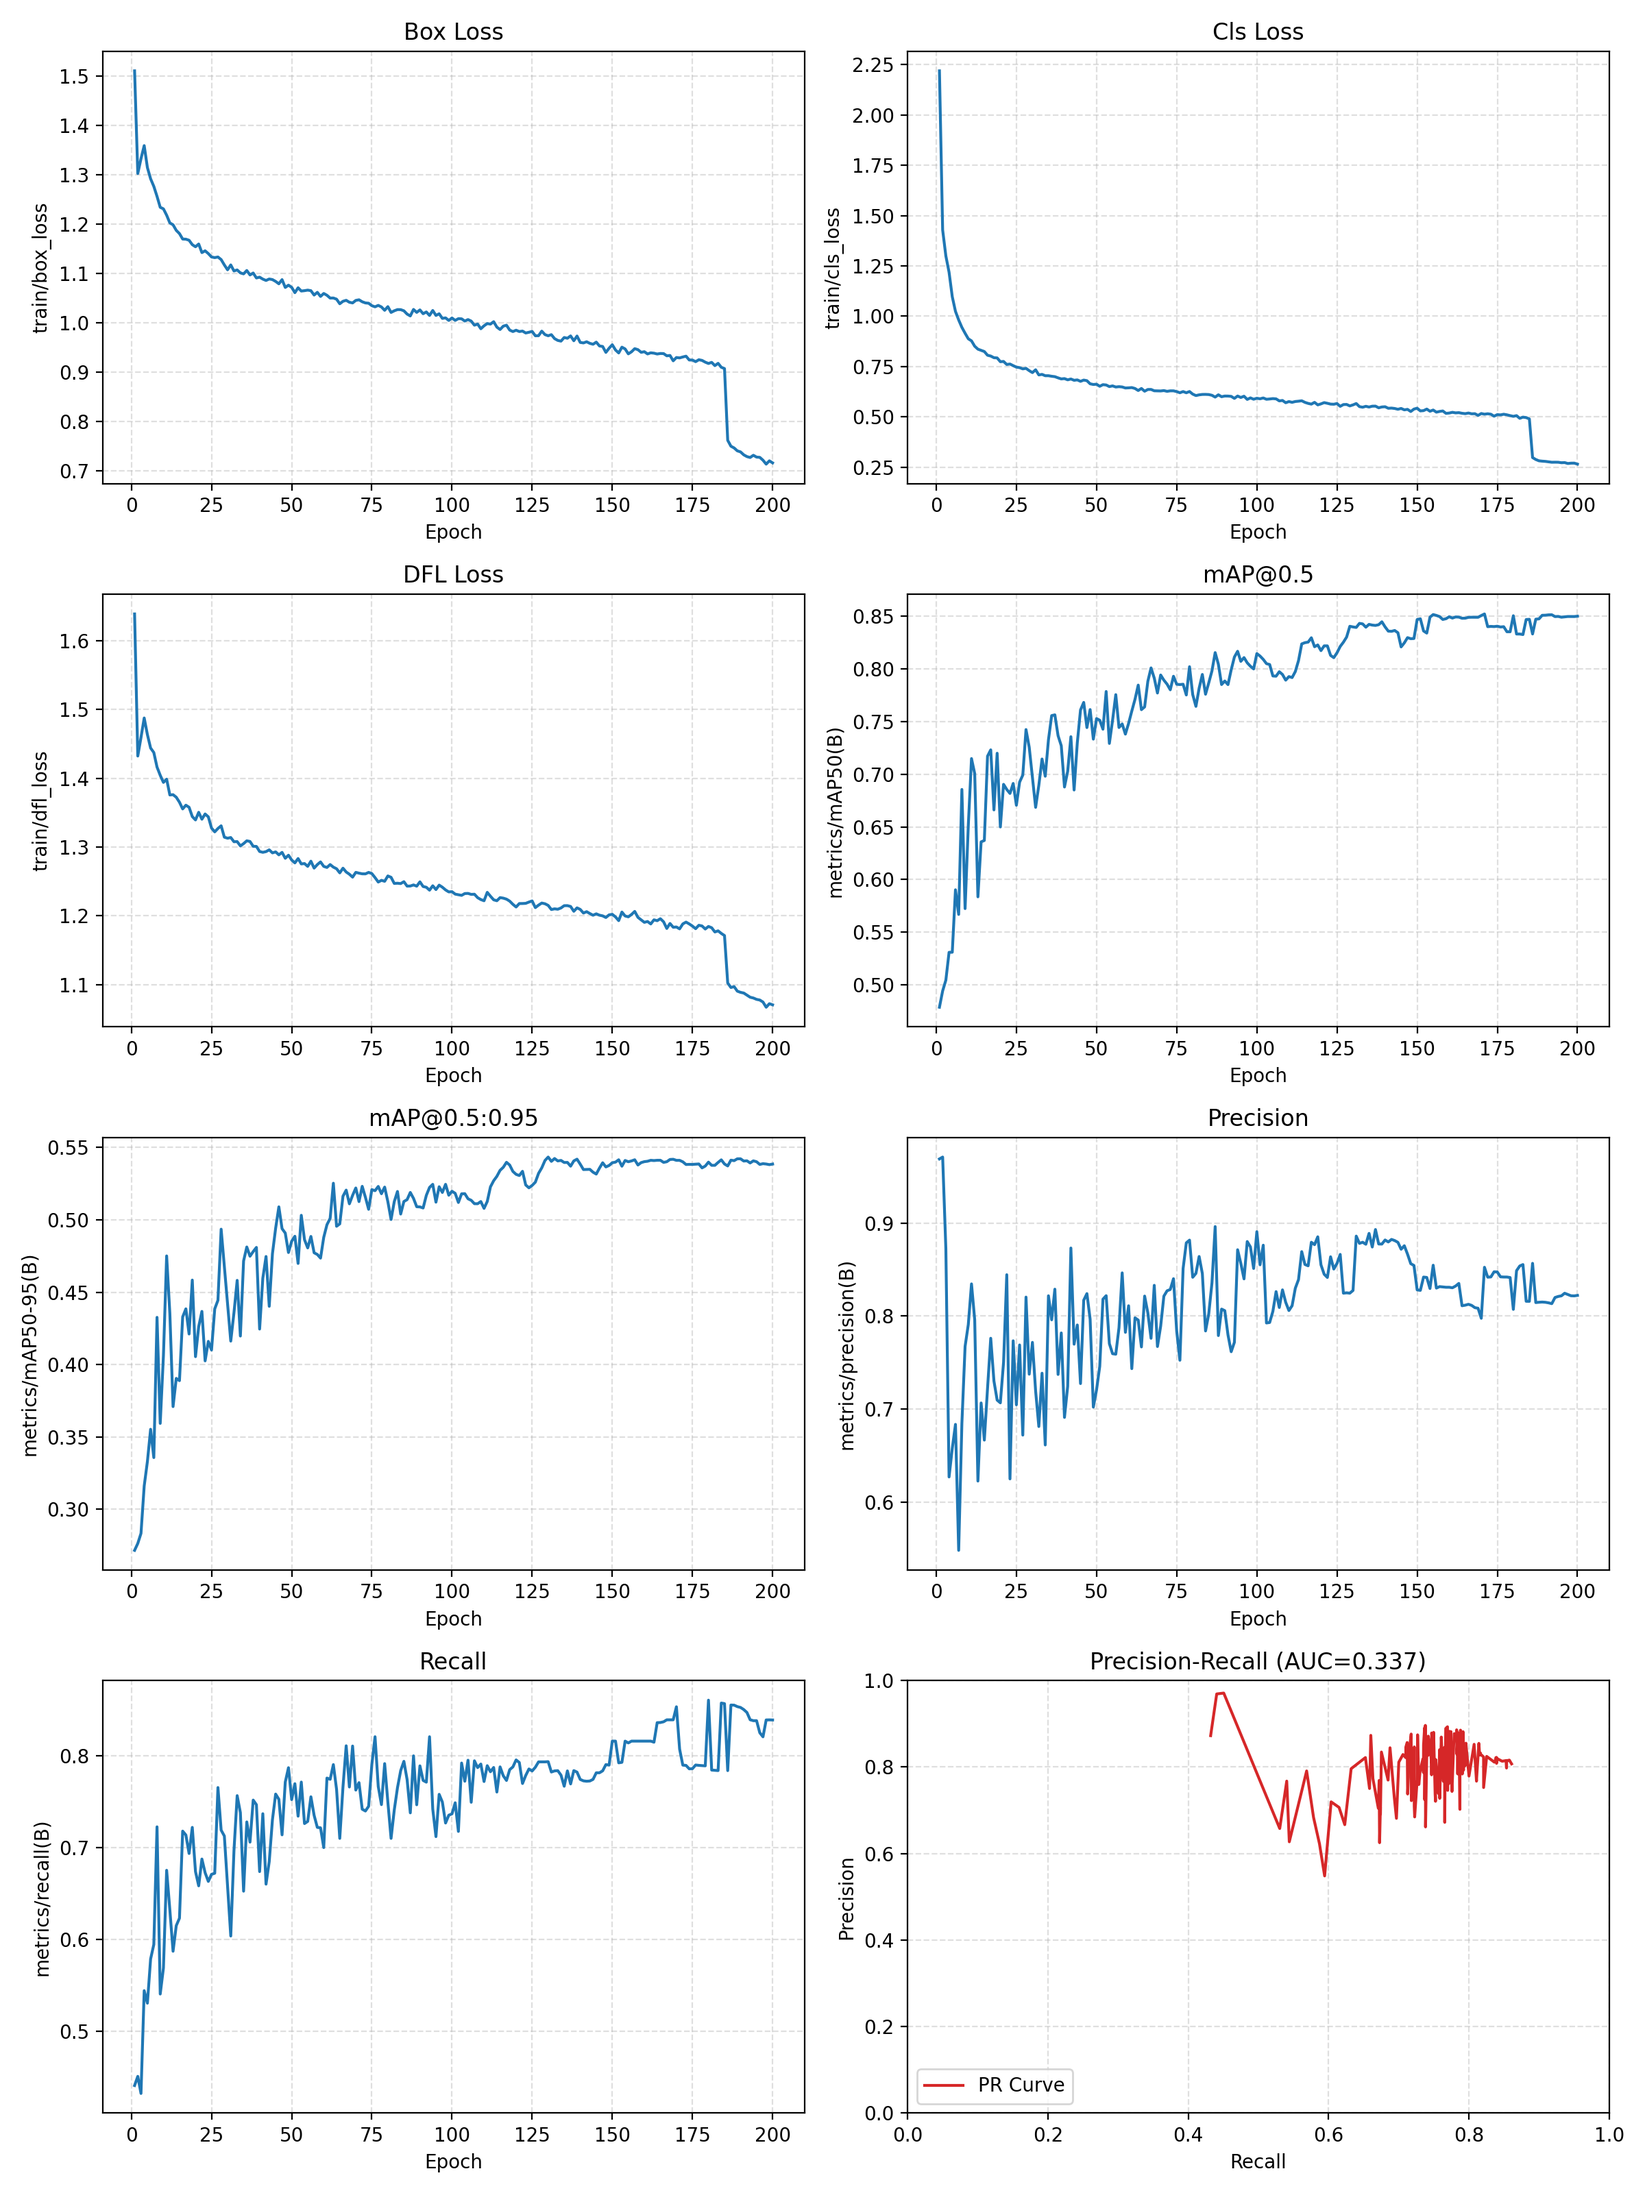
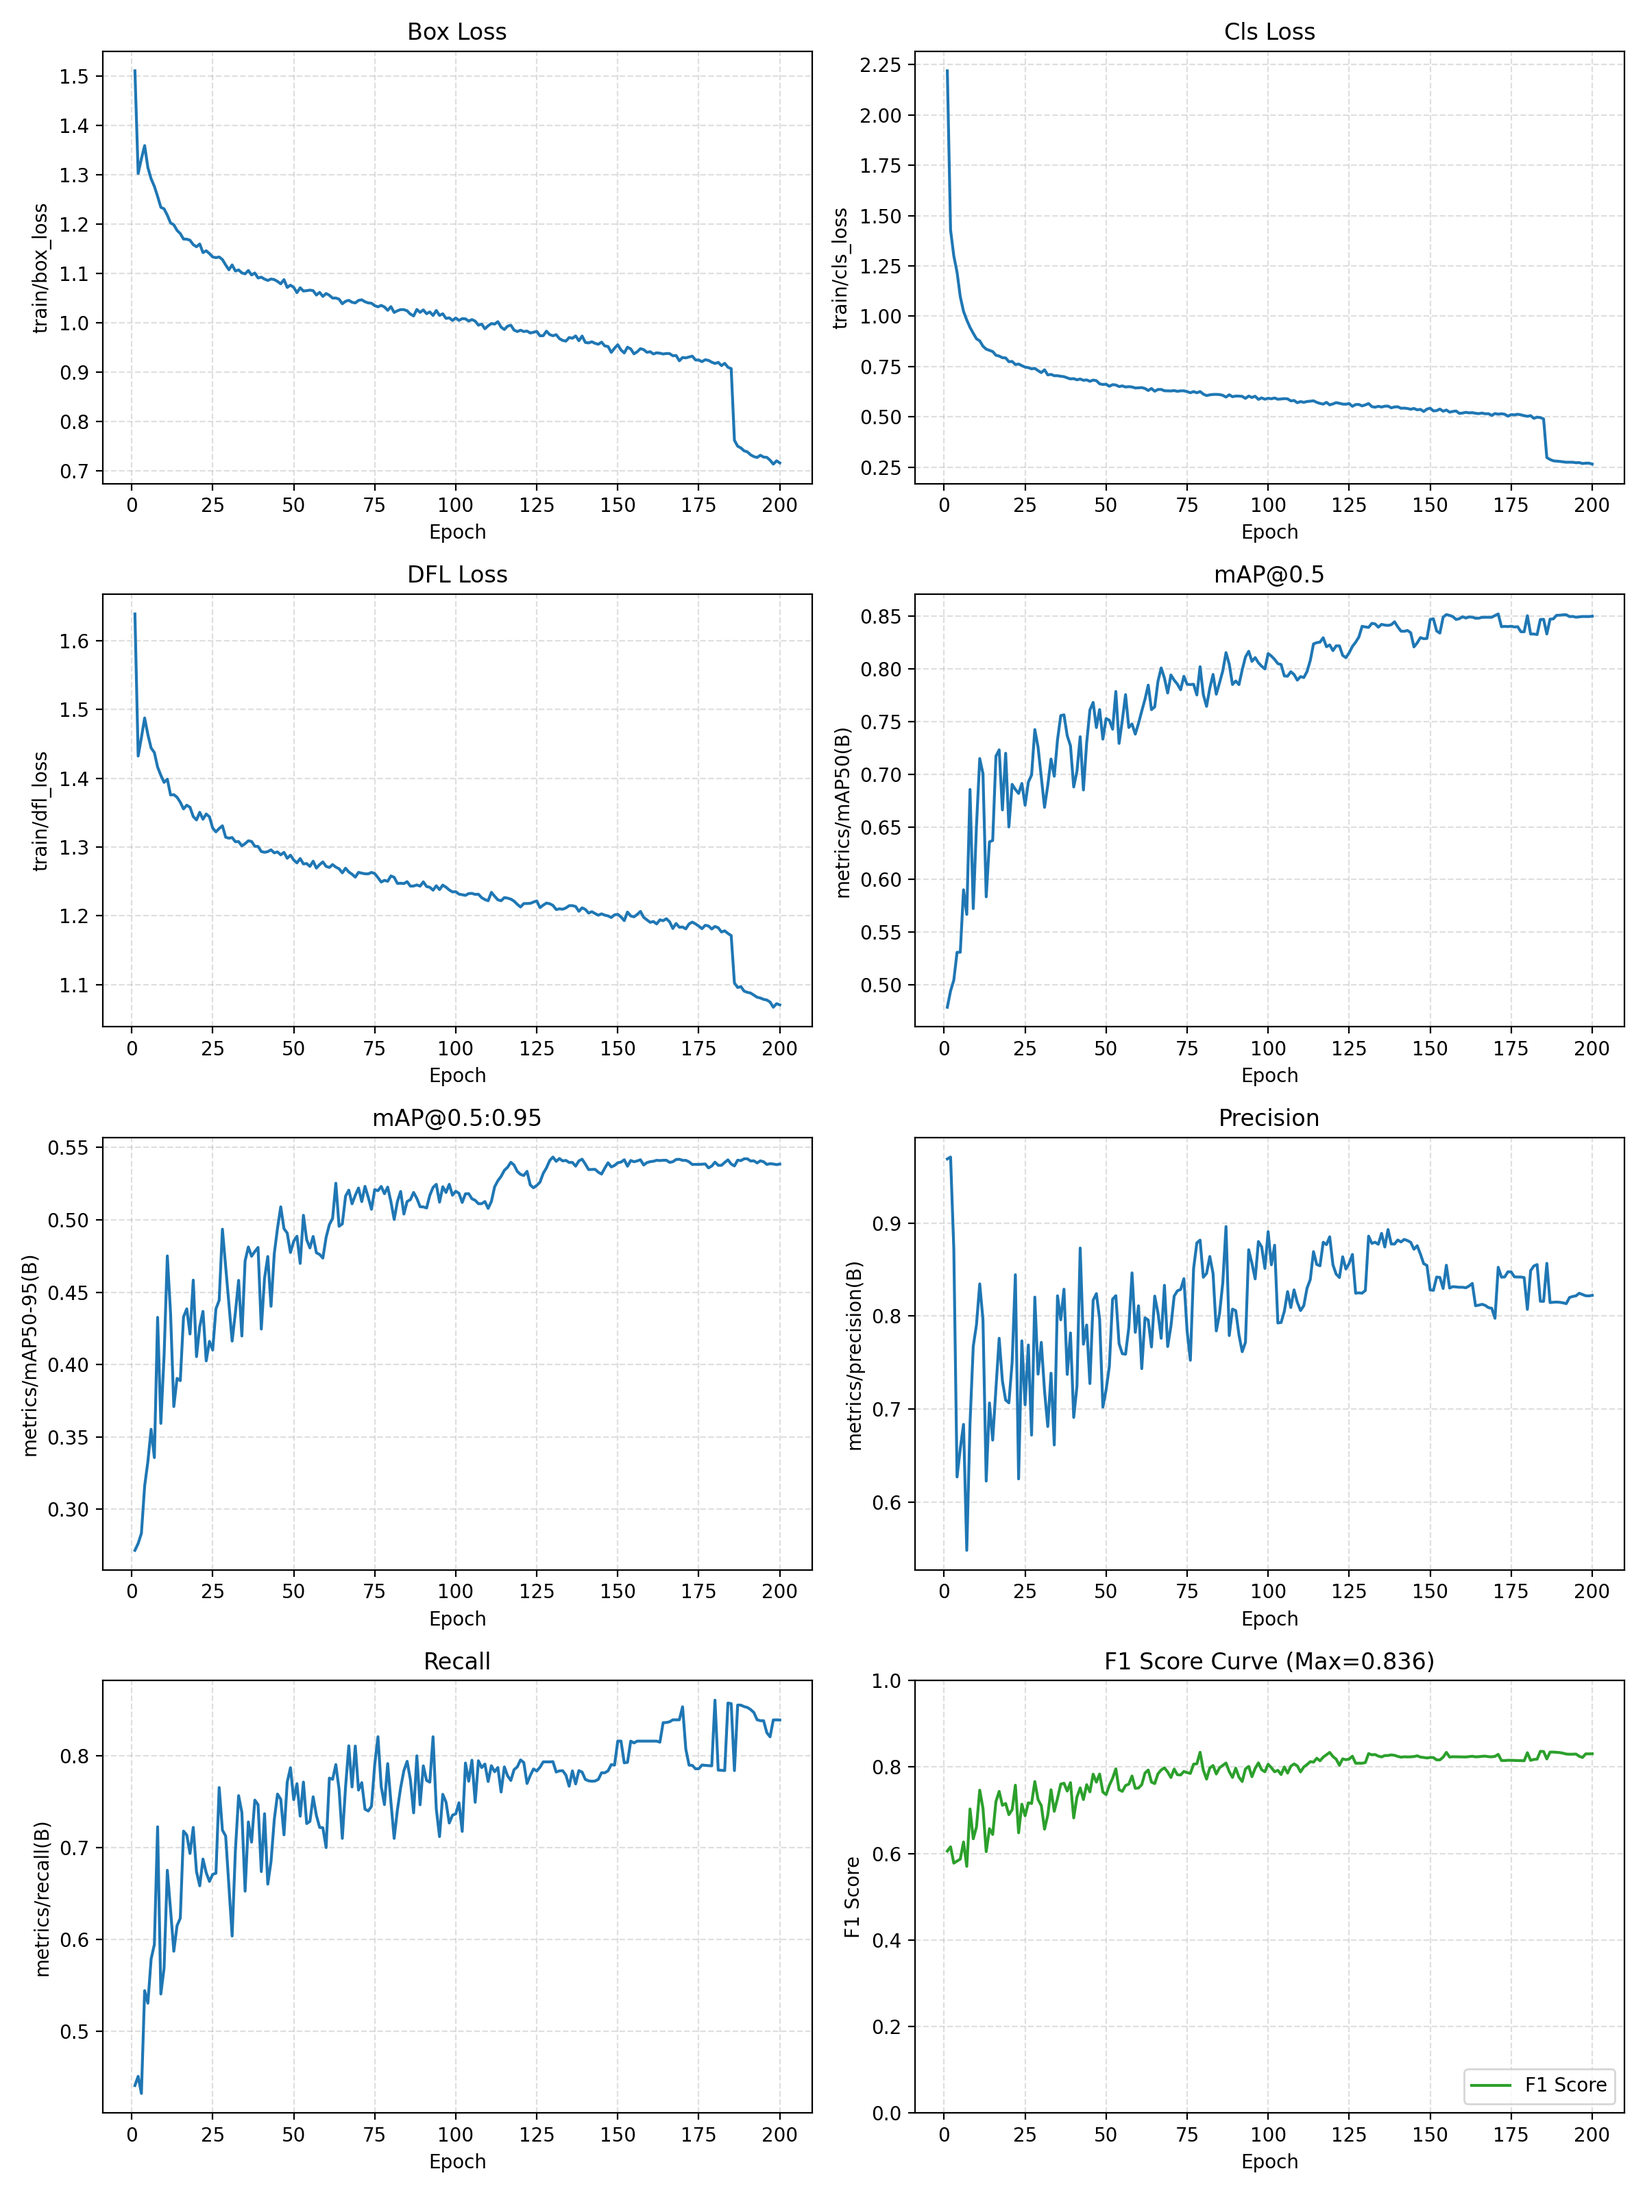
feat: replace PR curve with F1 Score curve in training visualization

diff --git a/models/train_yolov11_mask_detection.py b/models/train_yolov11_mask_detection.py
@@ -356,19 +356,21 @@ class YOLOv11MaskDetectionTrainer:
             ax.grid(True, linestyle='--', alpha=0.4)
             next_axis += 1
 
-        if pr_df is not None:
-            recall = pr_df['metrics/recall(B)'].to_numpy()
-            precision = pr_df['metrics/precision(B)'].to_numpy()
-            auc_value = np.trapz(precision, recall)
+        if {'metrics/precision(B)', 'metrics/recall(B)'}.issubset(df.columns):
+            # 计算 F1 Score
+            # F1 = 2 * (P * R) / (P + R)
+            p = df['metrics/precision(B)']
+            r = df['metrics/recall(B)']
+            f1 = 2 * (p * r) / (p + r + 1e-16)
+            
             ax = axes[next_axis]
-            ax.plot(recall, precision, color='#d62728', label='PR Curve')
-            ax.set_title(f'Precision-Recall (AUC={auc_value:.3f})')
-            ax.set_xlabel('Recall')
-            ax.set_ylabel('Precision')
-            ax.set_xlim(0, 1)
+            ax.plot(df['epoch'], f1, color='#2ca02c', label='F1 Score')
+            ax.set_title(f'F1 Score Curve (Max={f1.max():.3f})')
+            ax.set_xlabel('Epoch')
+            ax.set_ylabel('F1 Score')
             ax.set_ylim(0, 1)
             ax.grid(True, linestyle='--', alpha=0.4)
-            ax.legend(loc='lower left')
+            ax.legend(loc='lower right')
             next_axis += 1
 
         for idx in range(next_axis, len(axes)):
